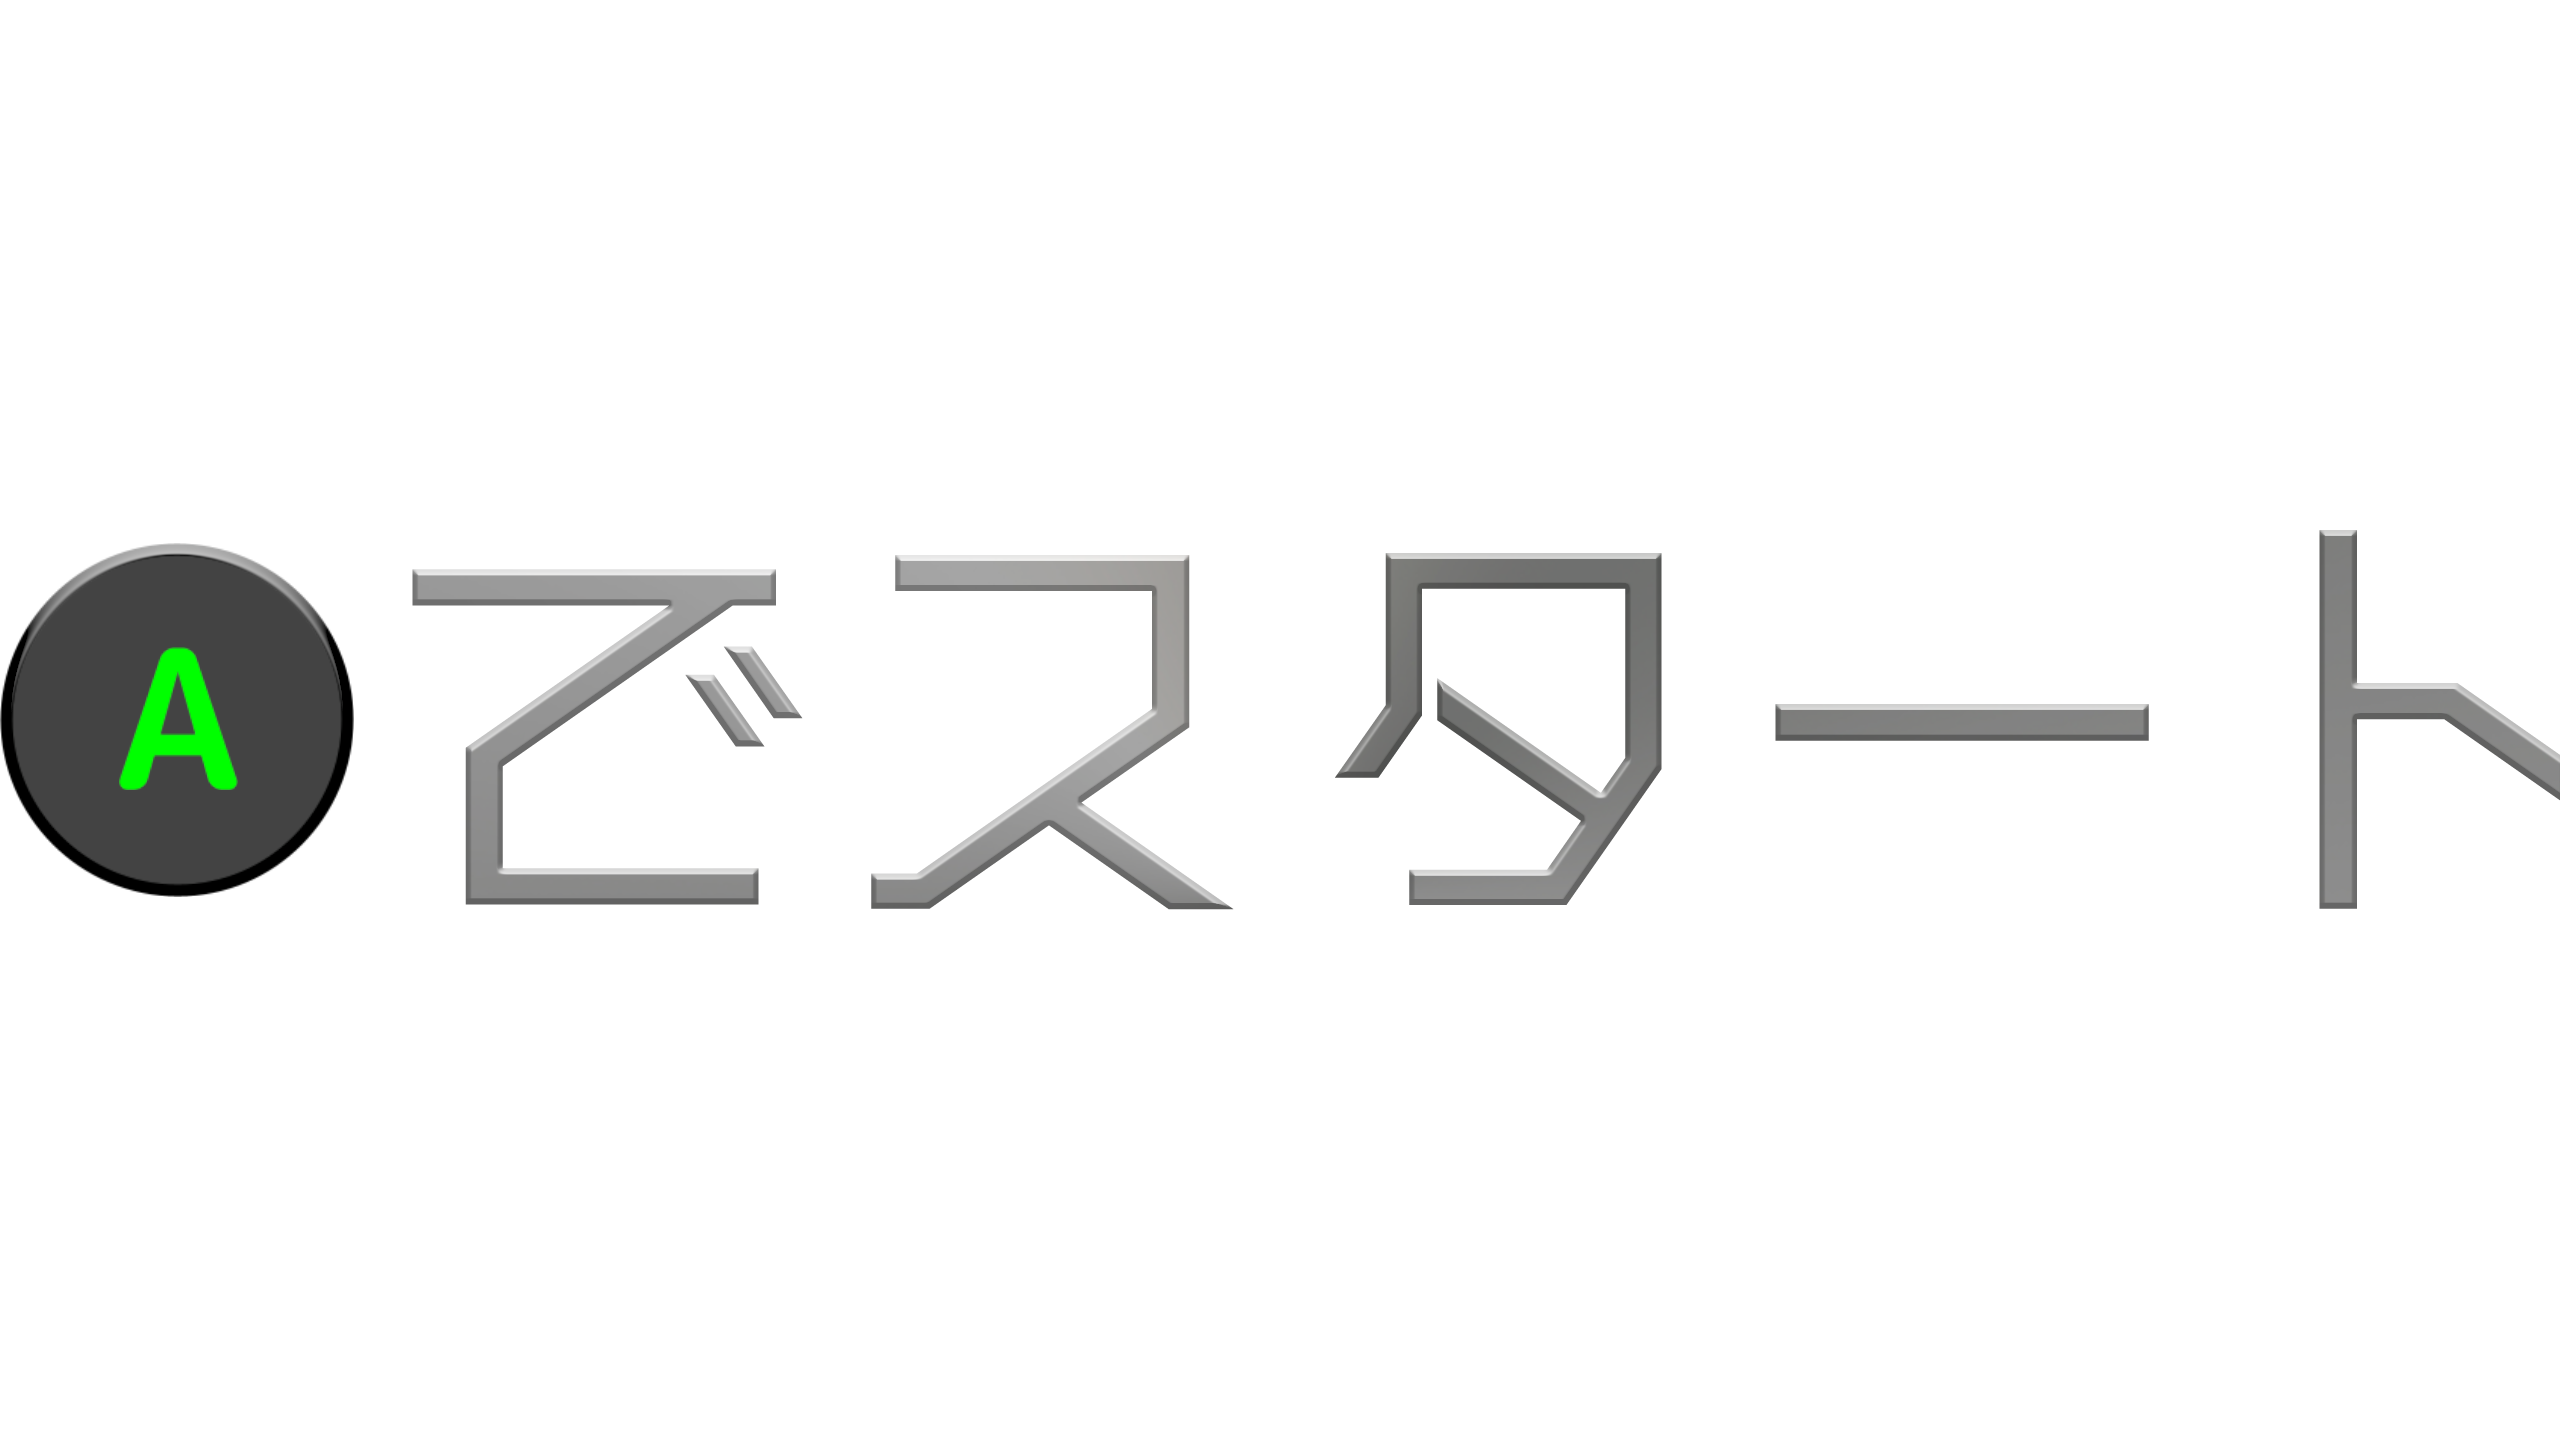
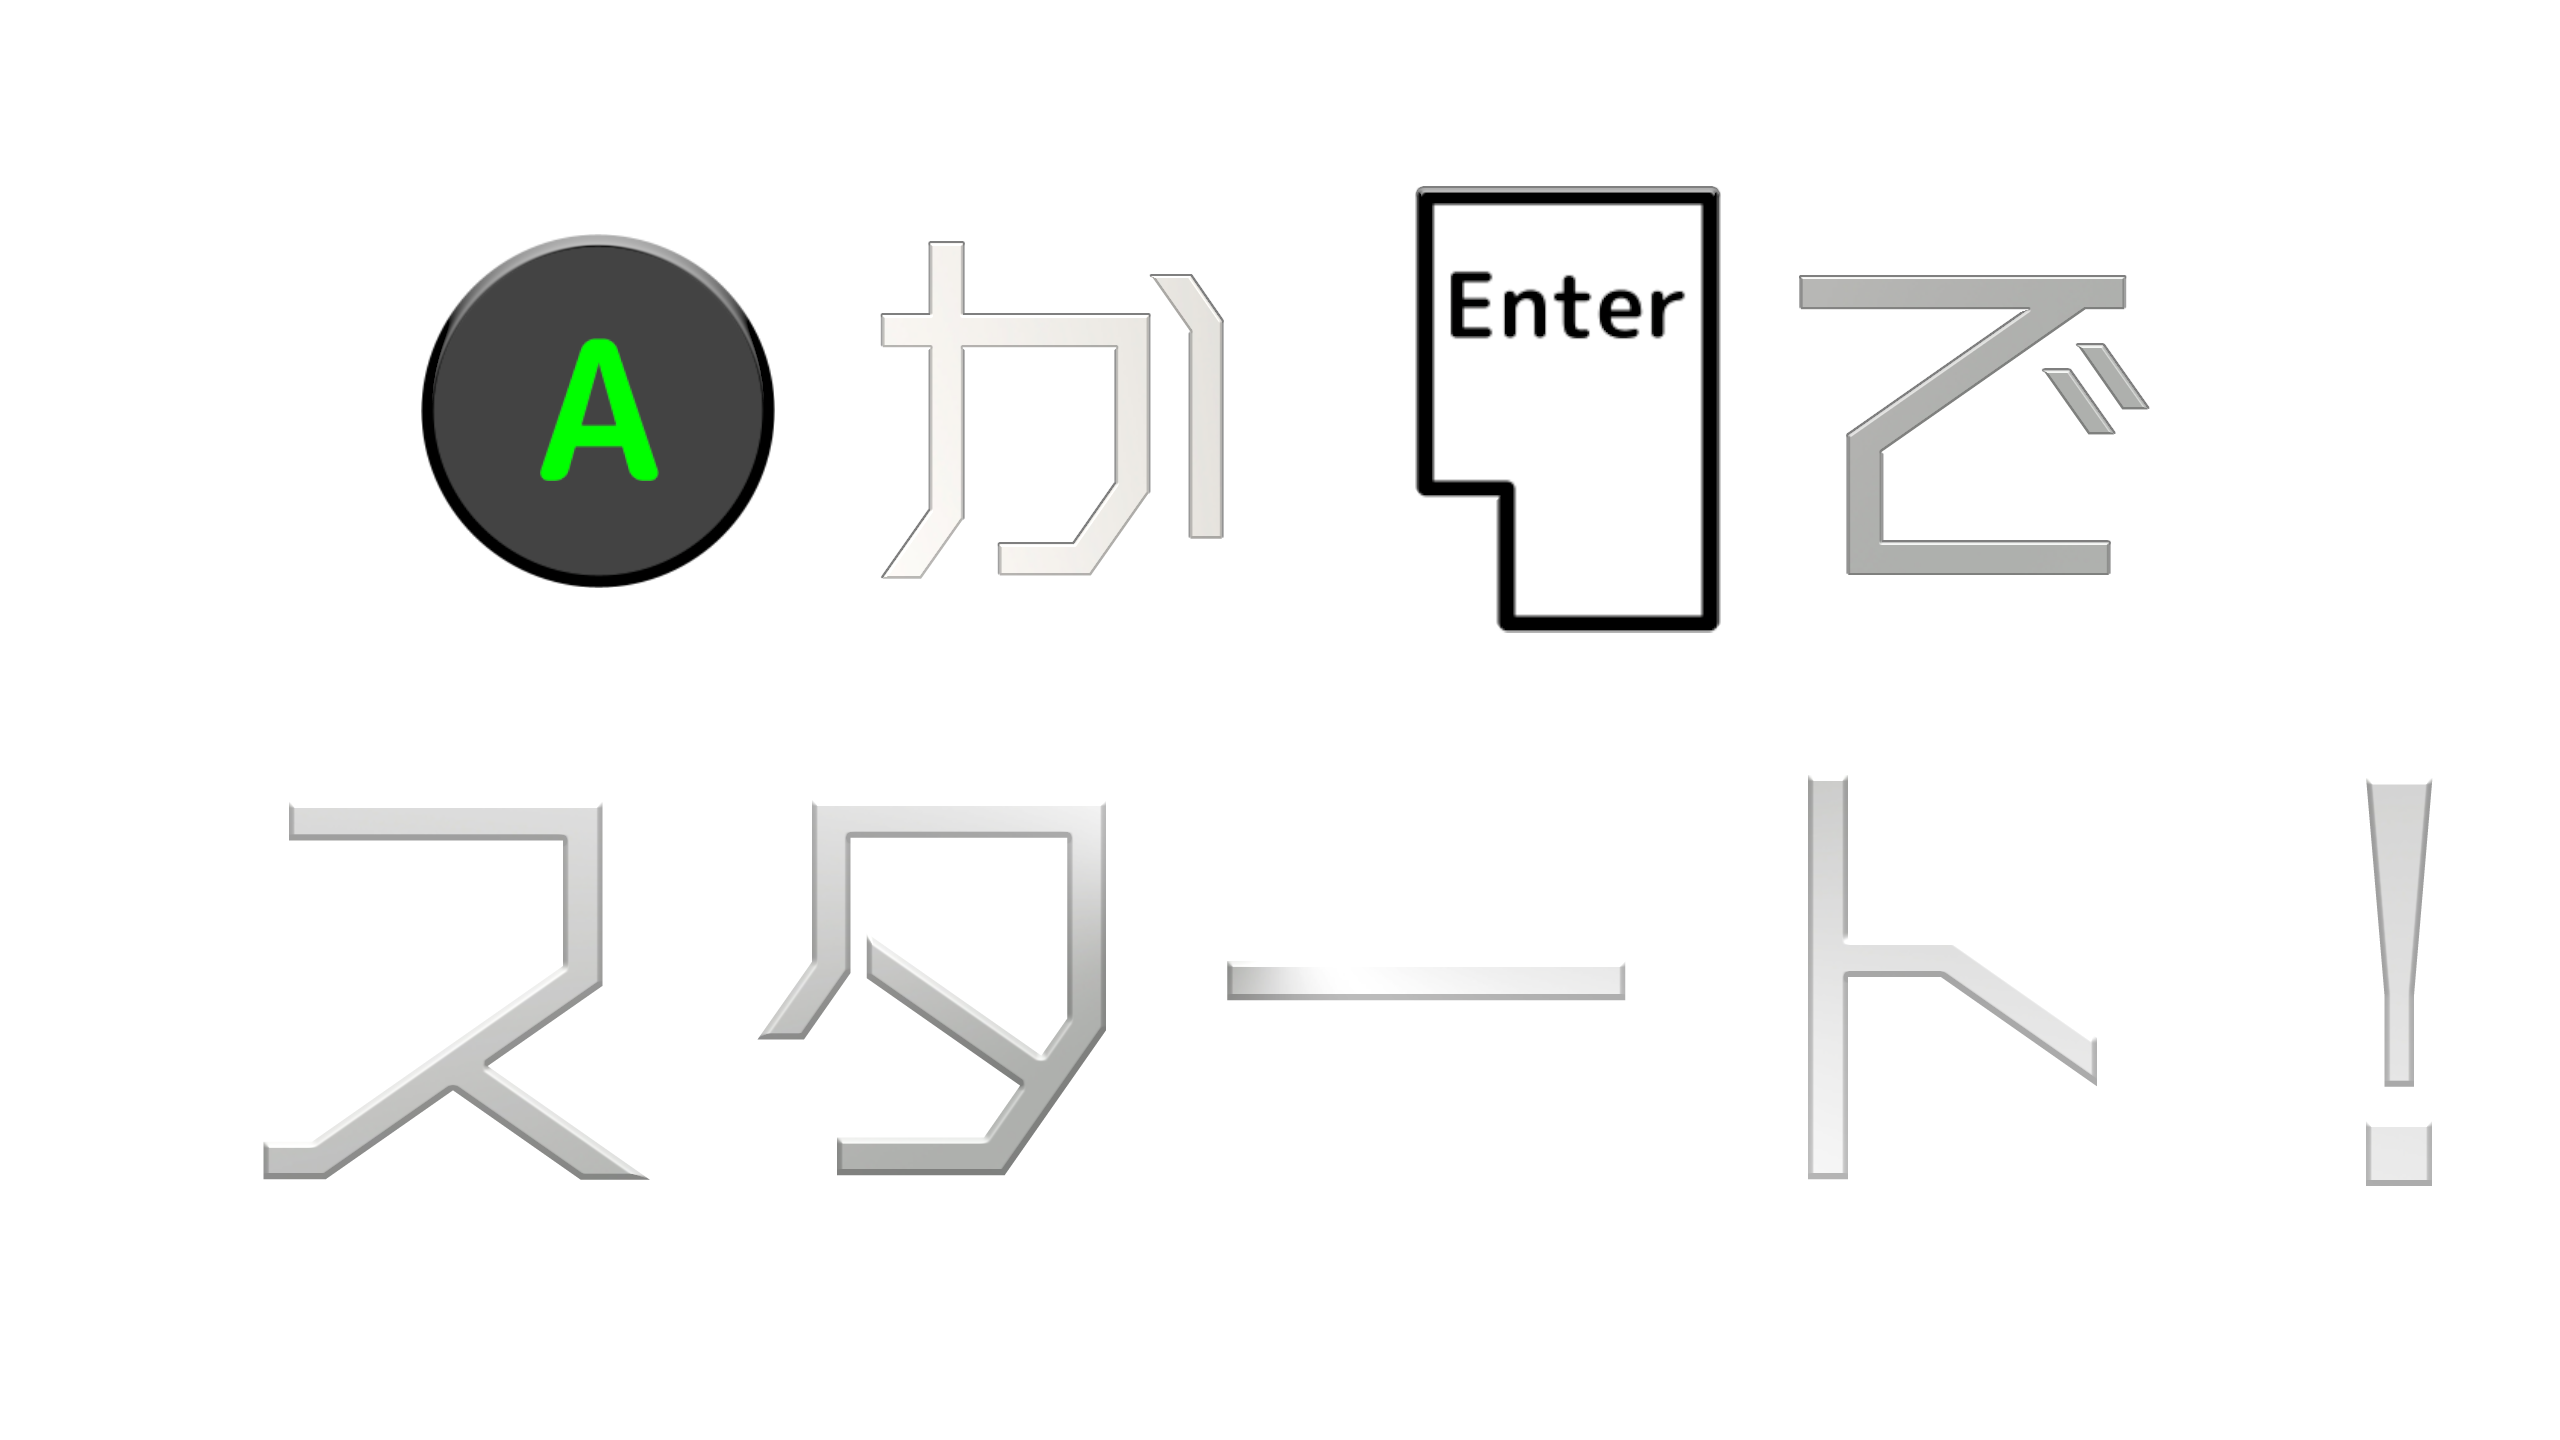
タイトル画面にAかEnterを押すように誘導するUIを配置

diff --git a/DirectXGame/TitleScene.cpp b/DirectXGame/TitleScene.cpp
@@ -66,6 +66,7 @@ void TitleScene::Initialize() {
 	titleTex_ = TextureManager::Load("UI/title.png");
 	titleBackTex_ = TextureManager::Load("UI/titleBack.png");
 	titleFrontTex_ = TextureManager::Load("UI/titleFront.png");
+	AstartTex_ = TextureManager::Load("UI/Astart.png");
 
 	titleBGM_ = audio_->LoadWave("BGM/titleBGM.wav");
 	debugSE_ = audio_->LoadWave("SE/guard.wav");
@@ -99,6 +100,15 @@ void TitleScene::Initialize() {
 	    },
 	    {2560.0f, 1440.0f});
 	titleFrontSprite_->SetPosition({0.0f, 0.0f});
+	
+	Astart_Sprite_.reset(Sprite::Create(AstartTex_, {300.0f, 320.0f}));
+	Astart_Sprite_->SetSize({680.0f, 360.0f});
+	Astart_Sprite_->SetTextureRect(
+	    {
+	        0.0f,
+	        0.0f,
+	    },
+	    {2560.0f, 1440.0f});
 
 	// オプション 初期化
 	option->Initialize();
@@ -220,6 +230,8 @@ void TitleScene::Draw() {
 	// タイトルの表示
 	//titleSprite_->Draw();
 	titleFrontSprite_->Draw();
+
+	Astart_Sprite_->Draw();
 
 	// 画面遷移の描画
 	transition_->Draw();

diff --git a/DirectXGame/TitleScene.h b/DirectXGame/TitleScene.h
@@ -93,6 +93,7 @@ private: // メンバ変数
 	uint32_t titleTex_ = 0u;
 	uint32_t titleBackTex_ = 0u;
 	uint32_t titleFrontTex_ = 0u;
+	uint32_t AstartTex_ = 0u;
 
 	// BGM 
 	uint32_t titleBGM_ = 0u;
@@ -104,6 +105,7 @@ private: // メンバ変数
 	std::unique_ptr<Sprite> titleSprite_;
 	std::unique_ptr<Sprite> titleBackSprite_;
 	std::unique_ptr<Sprite> titleFrontSprite_;
+	std::unique_ptr<Sprite> Astart_Sprite_;
 
 	// オプション
 	Option* option = Option::GetInstance();
